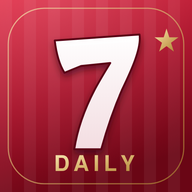
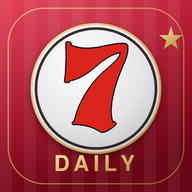
Εικονίδιο εφαρμογής: το πραγματικό 7 της Θύρας 7 από τη φωτογραφία, σε ασημί δίσκο
Claude-Session: https://claude.ai/code/session_01BE28NuiU839gujPCXEFcvf

diff --git a/sw.js b/sw.js
@@ -1,4 +1,4 @@
-const C="thr-v55",SH=["./","manifest.webmanifest","icons/icon-180.png","icons/icon-192.png","icons/icon-512.png","assets/gate7.jpg","assets/oly-football.jpg","assets/oly-basketball.jpg","assets/oly-amateur.png","assets/ball-football.png","assets/ball-basketball.png","assets/ball-polo.png","assets/ball-volleyball.png","assets/ball-handball.png"];
+const C="thr-v56",SH=["./","manifest.webmanifest","icons/icon-180.png","icons/icon-192.png","icons/icon-512.png","assets/gate7.jpg","assets/oly-football.jpg","assets/oly-basketball.jpg","assets/oly-amateur.png","assets/ball-football.png","assets/ball-basketball.png","assets/ball-polo.png","assets/ball-volleyball.png","assets/ball-handball.png"];
 self.addEventListener("install",e=>{e.waitUntil(caches.open(C).then(c=>c.addAll(SH)).then(()=>self.skipWaiting()))});
 self.addEventListener("activate",e=>{e.waitUntil(caches.keys().then(k=>Promise.all(k.filter(x=>x!==C).map(x=>caches.delete(x)))).then(()=>self.clients.claim()))});
 self.addEventListener("fetch",e=>{const r=e.request;if(r.method!=="GET")return;const u=new URL(r.url);if(u.origin!==location.origin)return;
